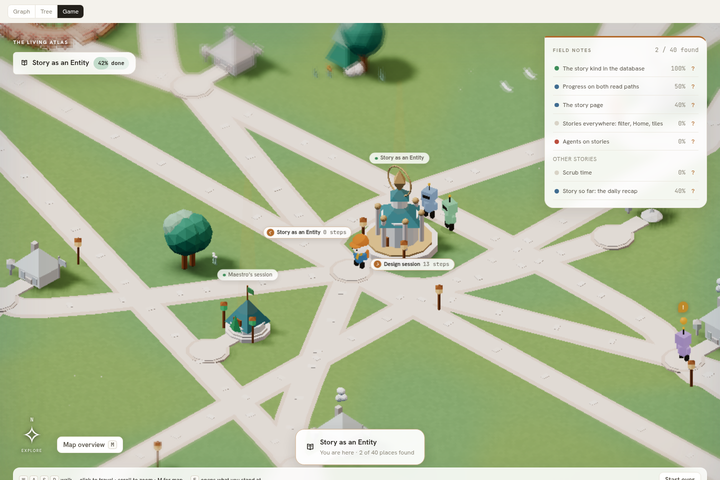
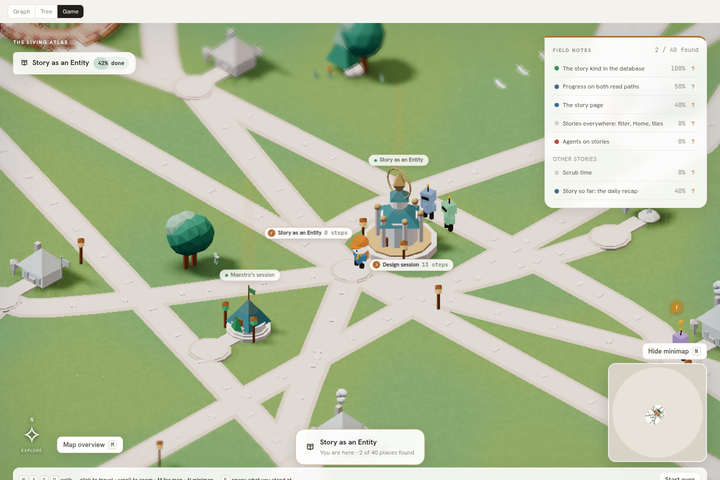
story-game robots: use ATTENTION_KIND, refresh evidence on e5639242
Rebased onto main after PRs 1043 (asset kit) and 1044 (minimap). The attention
adjacency rule now reads ATTENTION_KIND from model.ts instead of deriving the
kind from the view table; evidence captures and the SwiftShader table are from
the rebased build (draw calls unchanged: 59 with no robots, 68 with 3 or 7).

diff --git a/packages/tm8-ui/e2e/story-robots-fixture.ts b/packages/tm8-ui/e2e/story-robots-fixture.ts
@@ -1,7 +1,7 @@
 /** Robot evidence fixtures: the same story graph with a chosen number of live sessions and one attention request beside a live task. No server writes. */
 import { STORY_FIXTURE } from '../src/story/fixture';
 import type { StorySession, StoryNode } from '../src/story/model';
-import { TASK_KIND, VIEW_OF_KIND } from '../src/story/model';
+import { ATTENTION_KIND, TASK_KIND } from '../src/story/model';
 
 /** `live` live sessions (0 keeps only the finished ones); `attention` adds a pending request on the first live session's task. */
 export function robotsFixture(live: number, attention: boolean) {
@@ -18,7 +18,7 @@ export function robotsFixture(live: number, attention: boolean) {
   view.state.liveSessionCount = liveSessions.length;
   if (attention) {
     const target = liveSessions.map((s) => s.taskIds[0]).find((id): id is string => !!id && view.page.nodes.some((n) => n.id === id));
-    const kind = Object.keys(VIEW_OF_KIND).find((k) => k !== TASK_KIND && VIEW_OF_KIND[k] === VIEW_OF_KIND[TASK_KIND])!;
+    const kind = ATTENTION_KIND;
     if (target) {
       const task = view.page.nodes.find((n) => n.id === target)!;
       const node: StoryNode = { id: 'robot-attention', kind, title: 'approve the plan?', status: 'pending', statusCategory: 'to_do', blocked: false, depth: task.depth + 1, rootIds: task.rootIds, activityAt: null, createdAt: task.createdAt };

diff --git a/packages/tm8-ui/src/story/game/robots.ts b/packages/tm8-ui/src/story/game/robots.ts
@@ -15,7 +15,7 @@
  * labelled PROVISIONAL below, both in the returned `reason` and in comments.
  */
 import type { StoryPage, StorySession, StoryView, StoryNode } from '../model';
-import { TASK_KIND, VIEW_OF_KIND } from '../model';
+import { ATTENTION_KIND } from '../model';
 import { doorstep, type Place, type World } from './world';
 
 /** Why the robot stands where it does. `task` is the only non-provisional reason. */
@@ -128,10 +128,6 @@ export function robotStand(session: StorySession, world: World, now: number = Da
   return { x, z, facing: heading(x, z, hx, hz), placeId: null, reason: 'depot' };
 }
 
-/** The kinds that share the tasks view with a task — the attention request kind(s). No literal here. */
-const ATTENTION_KINDS: ReadonlySet<string> = new Set(
-  Object.keys(VIEW_OF_KIND).filter((kind) => VIEW_OF_KIND[kind] === VIEW_OF_KIND[TASK_KIND] && kind !== TASK_KIND),
-);
 
 /**
  * The node's own pending-attention count (`StoryNode.counts`, PR 1040). The
@@ -158,7 +154,7 @@ export function robotAttention(view: StoryView, stand: RobotStand, world: World,
   const neighbours = world.adjacency.get(stand.placeId) ?? [];
   return neighbours.some((id) => {
     const kind = nodes.get(id)?.kind ?? world.byId.get(id)?.kind;
-    return kind !== undefined && ATTENTION_KINDS.has(kind);
+    return kind === ATTENTION_KIND;
   });
 }
 

diff --git a/packages/tm8-ui/src/story/game/robots.test.ts b/packages/tm8-ui/src/story/game/robots.test.ts
@@ -1,6 +1,6 @@
 import { describe, expect, it } from 'vitest';
 import { STORY_FIXTURE, STORY_FIXTURE_EMPTY } from '../fixture';
-import { TASK_KIND, VIEW_OF_KIND, type StoryNode, type StorySession, type StoryView } from '../model';
+import { ATTENTION_KIND, TASK_KIND, type StoryNode, type StorySession, type StoryView } from '../model';
 import { buildWorld, doorstep } from './world';
 import { latestTaskSignal, robotAttention, robotStand, robotsFor } from './robots';
 
@@ -10,7 +10,7 @@ const session = (id: string, taskIds: string[], extra: Partial<StorySession> = {
   runtimeStatus: 'running', model: null, teamMemberId: null, mode: 'worker', taskIds, rootIds: [], dispatchedById: null, ...extra,
 });
 const withSessions = (base: StoryView, sessions: StorySession[]): StoryView => ({ ...base, page: { ...base.page, sessions } });
-const attentionKind = Object.keys(VIEW_OF_KIND).find((k) => k !== TASK_KIND && VIEW_OF_KIND[k] === VIEW_OF_KIND[TASK_KIND])!;
+const attentionKind = ATTENTION_KIND;
 
 describe('robotStand', () => {
   const world = buildWorld(STORY_FIXTURE, NOW);

diff --git a/docs/ui/evidence/story-game-robots.md b/docs/ui/evidence/story-game-robots.md
@@ -2,7 +2,7 @@
 
 Open this evidence when reviewing the robots PR, changing where a session's robot stands, or replacing the robot look from the asset lane. It records the placement rules, which of them are provisional, the reproducible SwiftShader capture and its limits.
 
-Task: `01a1090f-e81d-7a84-887d-cca85f6782c0`. Baseline: `6427de72fbac3eda37ad7f3abdd7e816c6c1faec` (PR #1039 merged), rebased onto `450b968d` (PR #1040 node counts, PR #1041 road labels).
+Task: `01a1090f-e81d-7a84-887d-cca85f6782c0`. Baseline: `6427de72fbac3eda37ad7f3abdd7e816c6c1faec` (PR #1039 merged), rebased onto `e5639242` (PR #1040 node counts, PR #1041 road labels, PR #1043 asset kit, PR #1044 minimap).
 
 ## Behaviour
 
@@ -12,7 +12,7 @@ Task: `01a1090f-e81d-7a84-887d-cca85f6782c0`. Baseline: `6427de72fbac3eda37ad7f3
   - several tasks and no such signal: the lowest task id, reason `stable` (**PROVISIONAL**, chosen so a robot never jumps between snapshots; `taskIds` order is never used);
   - no task in the world: an arc north of the hub, spaced by index, reason `depot` (**PROVISIONAL**: the page says nothing about where a taskless session belongs).
   - Two robots at the same doorstep stand one unit apart. Every robot faces its place (depot robots face the hub).
-- `robotAttention(view, stand, world, nodes)`: false unless `view.state.pendingAttentionCount > 0` and the robot has a place. When the place's node carries `counts.pendingAttention` (PR #1040) that number decides. When `counts` is absent (unknown, never zero: the running server may not send it yet) the **PROVISIONAL** rule applies: true if the place is adjacent in the world graph to a node whose kind maps to the tasks view and is not the task kind itself (derived from `VIEW_OF_KIND` and `TASK_KIND`, no literal).
+- `robotAttention(view, stand, world, nodes)`: false unless `view.state.pendingAttentionCount > 0` and the robot has a place. When the place's node carries `counts.pendingAttention` (PR #1040) that number decides. When `counts` is absent (unknown, never zero: the running server may not send it yet) the **PROVISIONAL** rule applies: true if the place is adjacent in the world graph to a node whose kind maps to the tasks view and is not the task kind itself (`ATTENTION_KIND` from `model.ts`, no literal).
 - `scene-robots.tsx`: nine `InstancedMesh`es for the whole population, one per body part (shade, legs, torso, arms, head, visor, antenna, tip, attention orb); the part table `ROBOT_PARTS` is the look seam the asset lane replaces. Instance colour tints each robot by a hash of its session id (`robotHue`, FNV-1a plus a murmur3 avalanche so sibling ids spread across the four palette hues `info / merged / run / brand`, softened toward `card`). Idle bob and sway update the instance matrices at most 30 times a second; under reduced motion the matrices are written once and stay still. The orb is scaled to zero unless the robot has attention. A DOM pip (`!`) in the existing `.sgm-labels` layer tracks each attention robot; it pulses through CSS unless reduced motion, and hides during a duel like the place labels. Clicking any instanced part walks the player to the robot's place with `onPlaceClick(placeId, false)`; a depot robot has no place and no handler is attached.
 - Styles: `story-game-robots.css`, every rule under `.cv2-root`, palette through `--pn-*` only.
 - No attention API calls; the indicator only reads the page.
@@ -33,15 +33,15 @@ All frames are **SwiftShader software rendering** (chromium 1243, `--enable-unsa
 
 | Scenario | Live sessions | Robots | Instanced meshes in scene | Draw calls (min–max) | Triangles | Pips | fps (SwiftShader) |
 | --- | --- | --- | --- | --- | --- | --- | --- |
-| `live0` | 0 | 0 | 9 | 59–59 | 81,096 | 0 | 1.1 |
-| `live3` | 3 | 3 | 18 | 68–68 | 83,040 | 0 | 4.5 |
-| `live7-attention` | 7 | 7 | 18 | 68–68 | 86,312 | 1 | 4.8 |
-| `live7-attention-dark` | 7 | 7 | 18 | 68–68 | 86,312 | 1 | 6.4 |
-| `live7-attention-reduced` | 7 | 7 | 18 | 68–68 | 86,312 | 1 (static) | 5.6 |
+| `live0` | 0 | 0 | 9 | 59–59 | 81,096 | 0 | 2.3 |
+| `live3` | 3 | 3 | 18 | 68–68 | 83,040 | 0 | 2.4 |
+| `live7-attention` | 7 | 7 | 18 | 68–68 | 86,312 | 1 | 3.1 |
+| `live7-attention-dark` | 7 | 7 | 18 | 68–68 | 86,312 | 1 | 5.5 |
+| `live7-attention-reduced` | 7 | 7 | 18 | 68–68 | 86,312 | 1 (static) | 2.9 |
 
 - Draw-call delta against PR #1039's 12-place overview (59 draw calls): **+9, constant**, the nine part meshes, whether 3 or 7 robots are alive; 0 robots mount nothing and stay at 59. Triangles grow by about 1,000 per robot.
 - Every click scenario walked the player to within 0 units of the robot's stand and opened the place's encounter card (`.sgm-duel__opponent`; the approach card is replaced by the duel plate at a place with encounters).
-- The fps column is the SwiftShader software renderer on a loaded host and varies run to run (0.9 to 6.4 across runs); it establishes nothing about hardware frame rate.
+- The fps column is the SwiftShader software renderer on a loaded host and varies run to run (0.9 to 6.4 across runs; the table is the run on `e5639242`); it establishes nothing about hardware frame rate.
 - Page errors during all five scenarios: none.
 
 ## Reproduce
